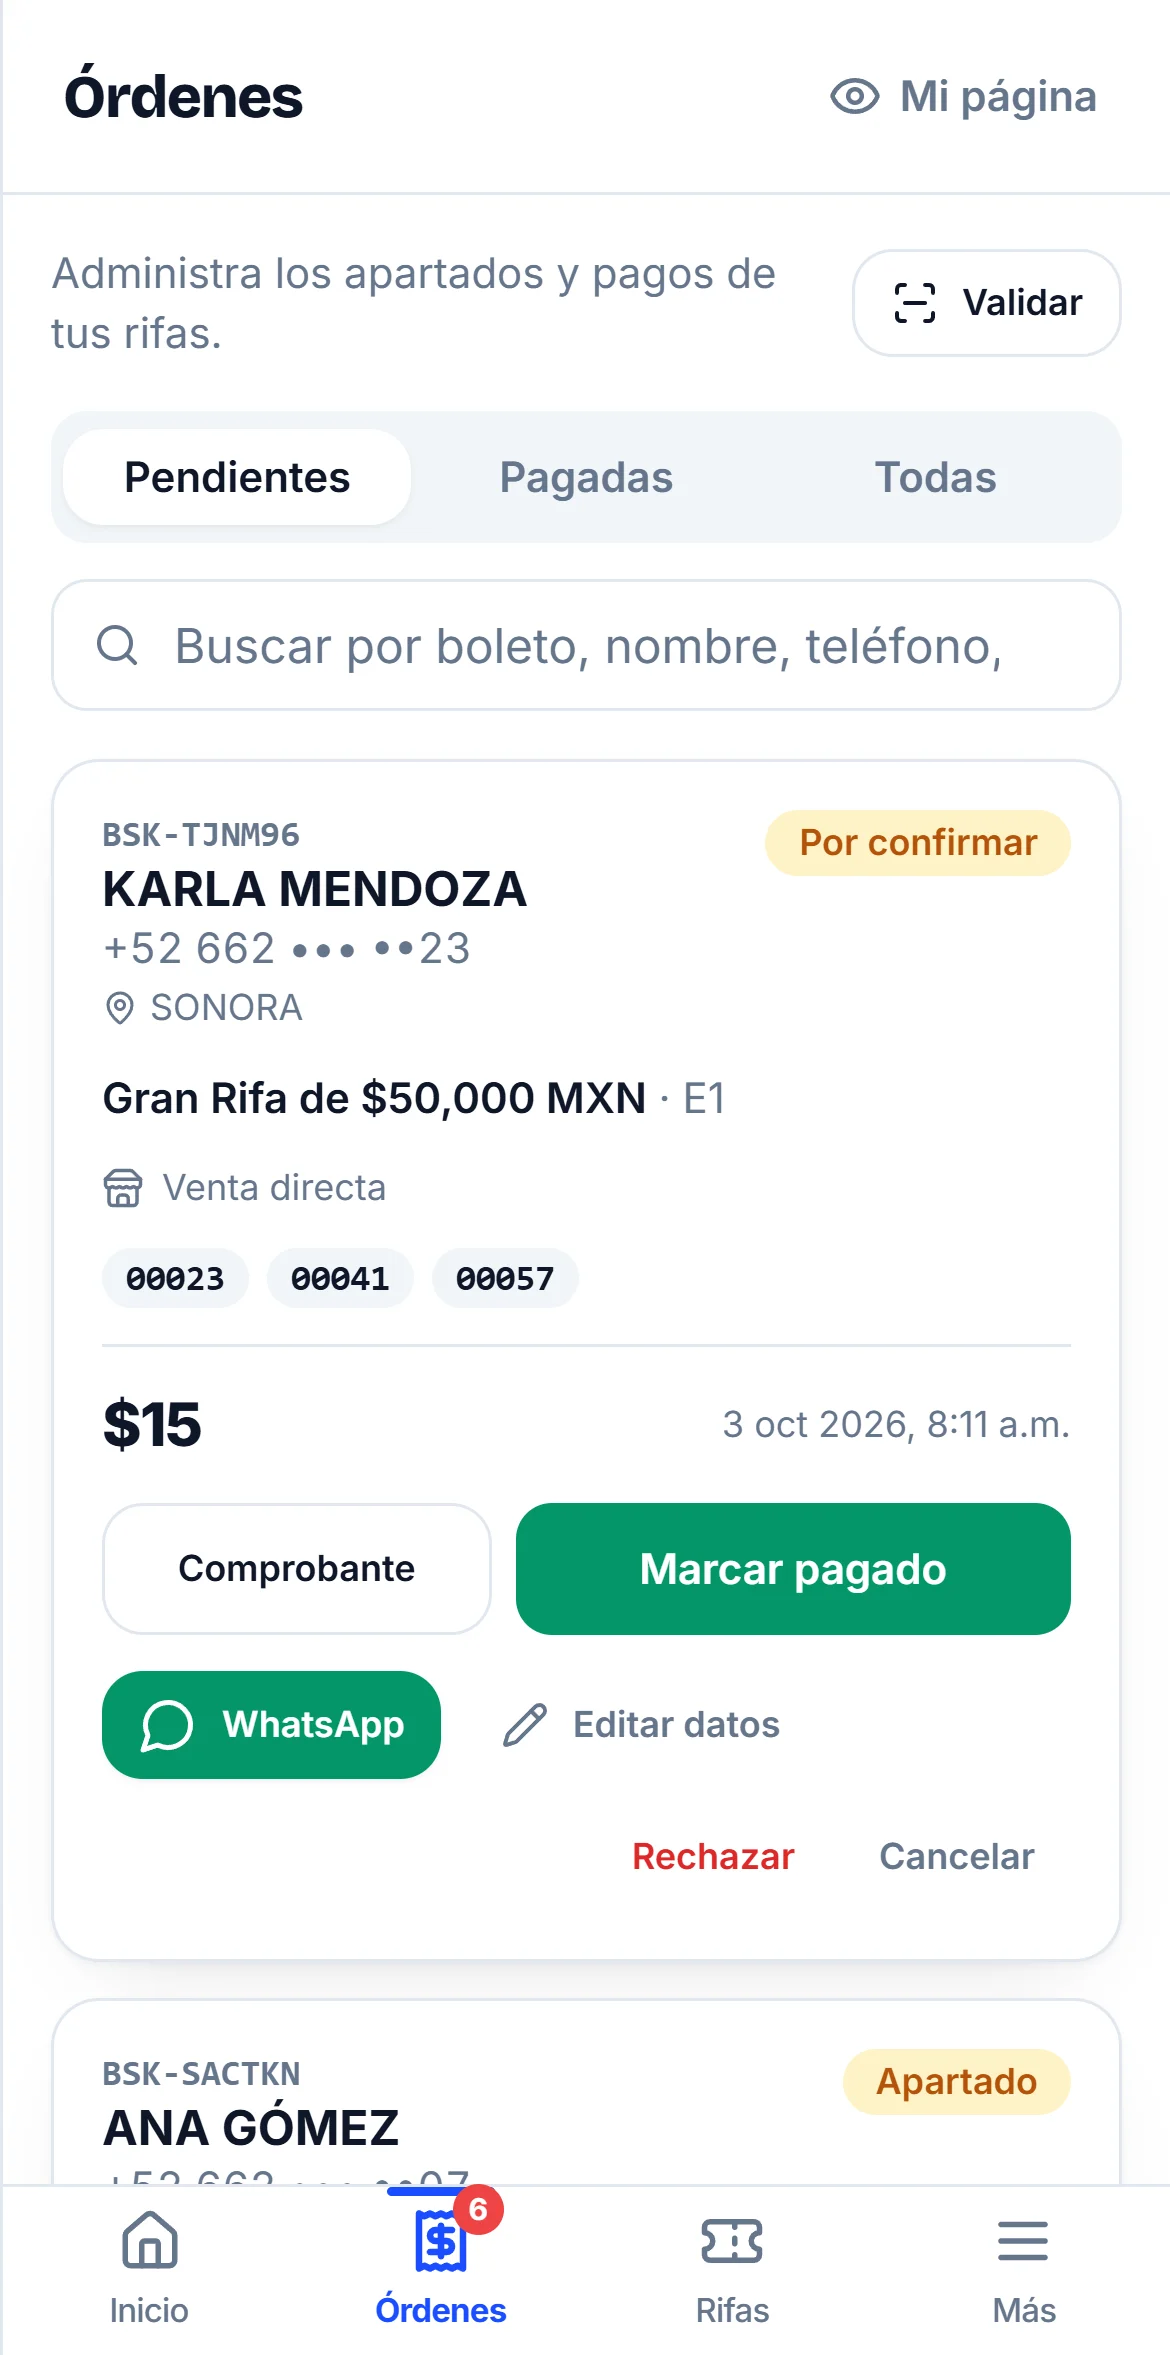
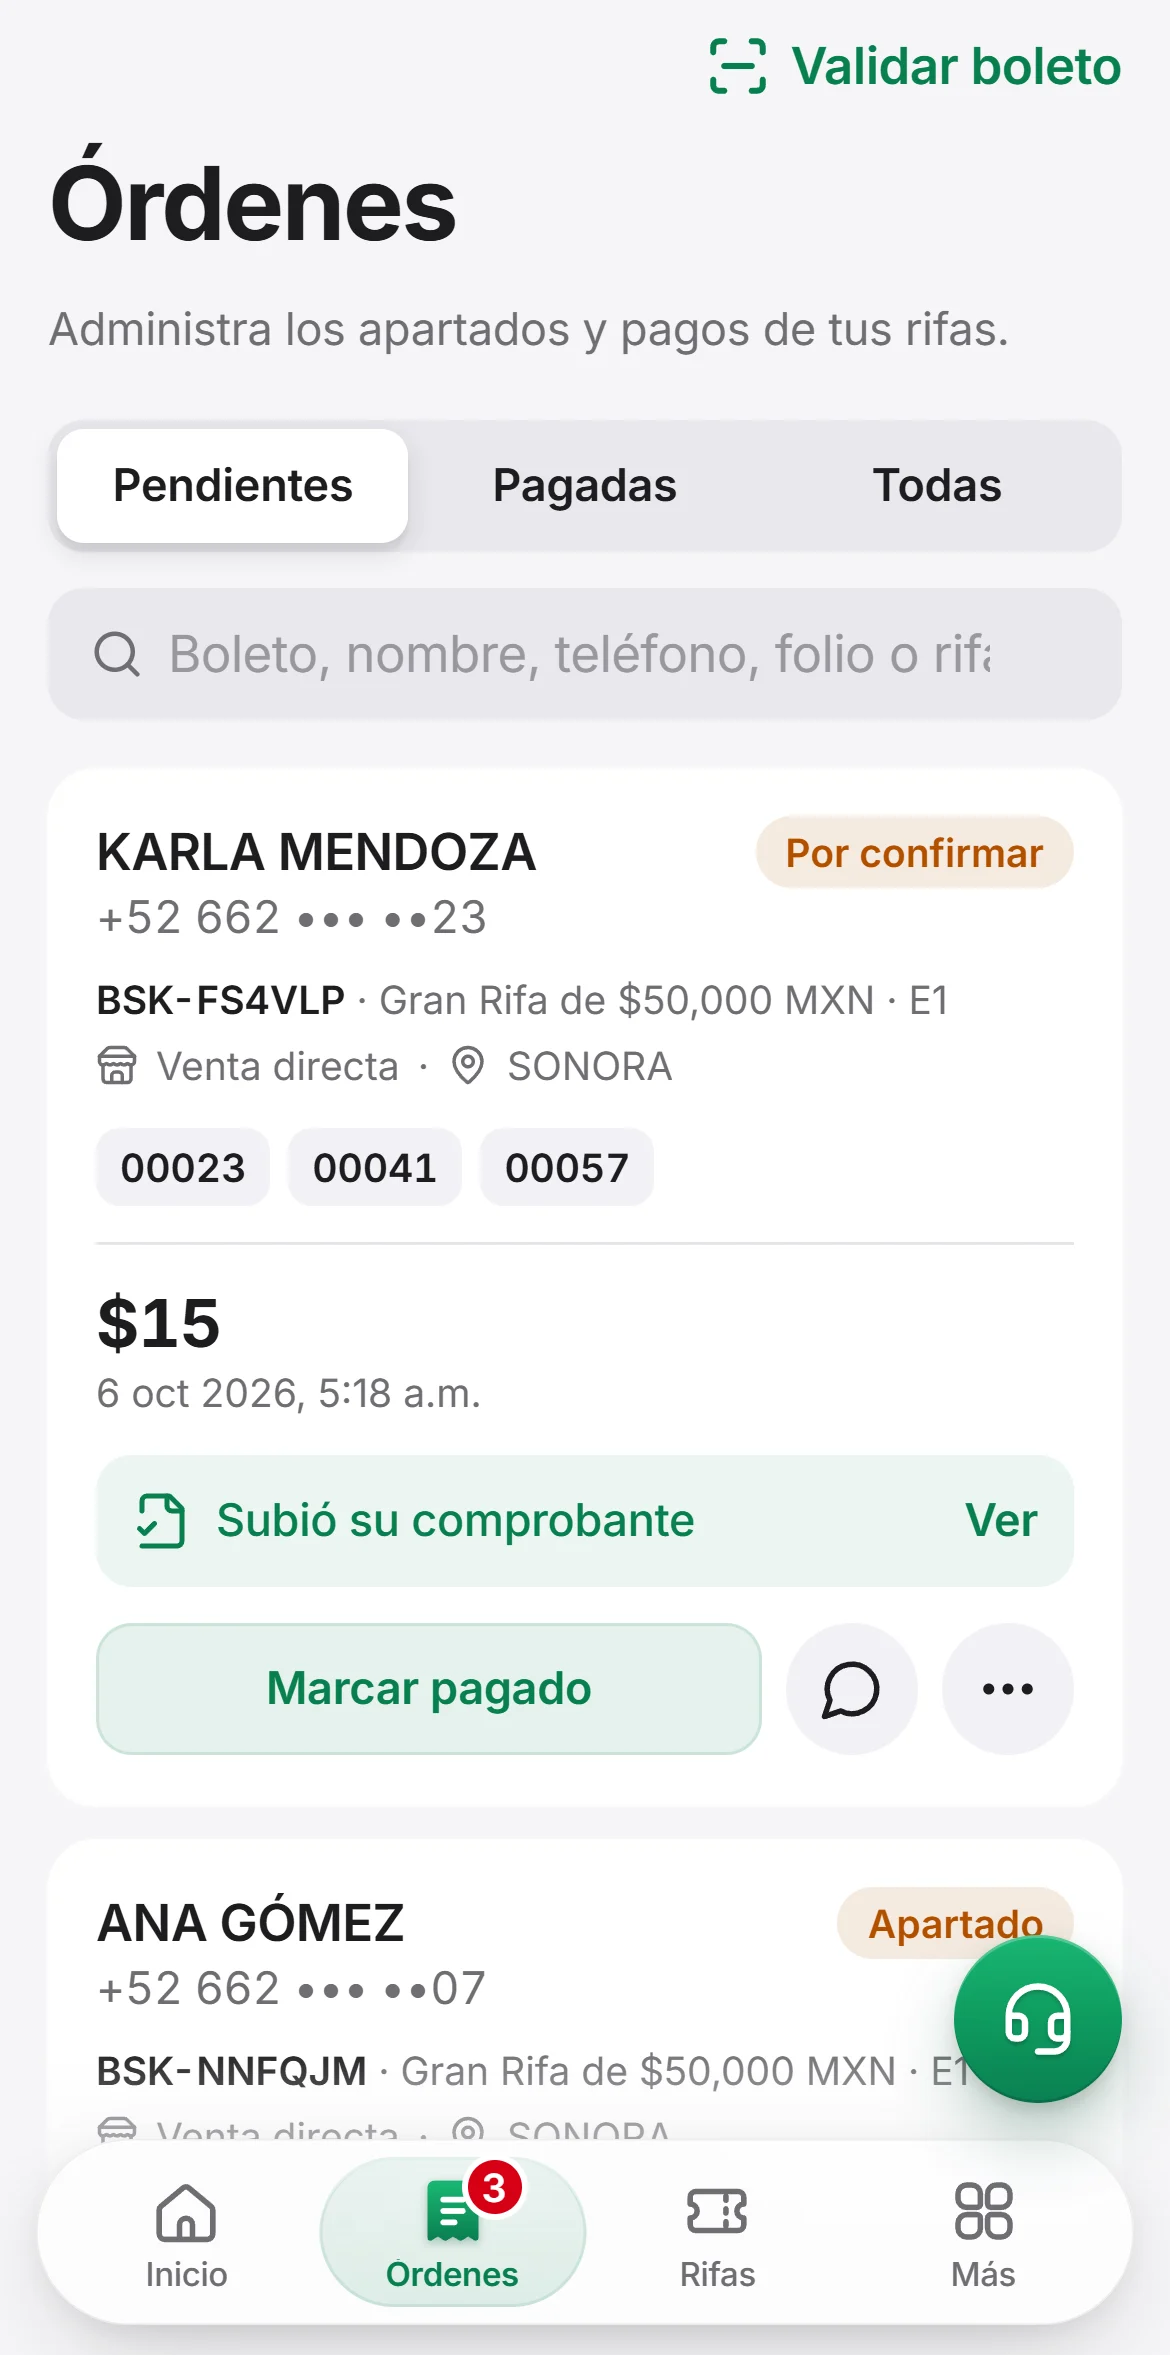
Panel con el diseno nuevo: Ordenes, recorte de Rifas y chat Asistencia 24 h
Capturas tomadas de demo.riffast.com (telefonos ocultos). El prototipo del chat
de ayuda ahora copia el chat real del panel: encabezado, bienvenida y accesos.

diff --git a/index.html b/index.html
@@ -34,7 +34,7 @@
    CONFIGURACIÓN · cambia estos dos valores antes de publicar
    ========================================================= */
 window.RIFFAST = {
-  whatsapp: '5218112345678',   // [POR CONFIRMAR] Tu WhatsApp con lada de país, solo números
+  whatsapp: '526626235329',    // Tu WhatsApp con lada de país (52), solo números
   metaPixelId: ''              // ID del píxel de Meta. Vacío = sin medición
 };
 
@@ -409,29 +409,45 @@ html.riffast-intro-active,html.riffast-intro-active body{overflow:hidden}
 .ay-time{position:absolute;z-index:2;left:0;top:14%;display:inline-flex;align-items:center;gap:8px;padding:10px 14px;border-radius:99px;background:var(--noche);color:#fff;font:500 13.5px/1 var(--f-mono);box-shadow:0 18px 40px -16px rgba(3,18,12,.6)}
 .ay-time svg{width:15px;height:15px;color:var(--menta)}
 @media(min-width:960px){.ay-time{left:4%}}
-.ch{position:absolute;inset:0;display:flex;flex-direction:column;background:#fff;color:var(--tinta);font-family:var(--f-body)}
-.ch .sb{background:#F6F8F7}
-.ch-head{display:flex;align-items:center;gap:3cqw;padding:2cqw 4.4cqw 3.4cqw;background:#F6F8F7;border-bottom:1px solid #E6ECE8}
-.ch-back{font-size:7cqw;line-height:1;color:var(--verde-2)}
-.ch-av{width:10.5cqw;height:10.5cqw;border-radius:50%;background:var(--noche);display:grid;place-items:center;flex:none}
-.ch-av img{width:6.4cqw;height:6.4cqw}
-.ch-head b{display:block;font:700 4cqw/1.15 var(--f-body)}
-.ch-on{display:flex;align-items:center;gap:1.2cqw;font:500 3cqw/1.2 var(--f-body);color:var(--verde-2)}
-.ch-on i{width:1.8cqw;height:1.8cqw;border-radius:50%;background:var(--verde)}
-.ch-body{flex:1;display:flex;flex-direction:column;gap:2.8cqw;padding:4.4cqw 4cqw}
-.msg{max-width:82%;padding:3cqw 3.8cqw;border-radius:4.6cqw;font:400 3.8cqw/1.38 var(--f-body);animation:pop .4s var(--spring) both}
-.msg.bot{align-self:flex-start;background:#EEF2F0;border-bottom-left-radius:1.4cqw}
-.msg.me{align-self:flex-end;background:var(--bosque);color:#fff;border-bottom-right-radius:1.4cqw}
+/* Chat «Asistencia 24 h»: igual al del panel real (hoja sobre el administrador, mismos textos y colores) */
+.ch{--ag:#08804F;--ag-soft:rgba(8,128,79,.1);--ag-line:rgba(8,128,79,.2);--ag-ink:#1D1D1F;--ag-mute:#6E6E73;--ag-fill:#F2F2F7;--ag-rule:#E6E6EB;position:absolute;inset:0;display:flex;flex-direction:column;background:#8E8E93;color:var(--ag-ink);font-family:var(--f-body)}
+.ch .sb{background:transparent;color:#fff}
+.ch-dim{flex:none;height:3.6cqw}
+.ch-sheet{position:relative;flex:1;min-height:0;display:flex;flex-direction:column;border-radius:6cqw 6cqw 0 0;background:#fff;box-shadow:0 -2cqw 6cqw rgba(0,0,0,.18)}
+.ch-grab{position:absolute;left:50%;top:2cqw;width:9cqw;height:1.2cqw;margin-left:-4.5cqw;border-radius:99px;background:#D1D1D6}
+.ch-head{display:flex;align-items:center;gap:3cqw;padding:6cqw 4cqw 3.6cqw;border-bottom:1px solid var(--ag-rule)}
+.ch-av{width:10cqw;height:10cqw;flex:none;border-radius:50%;background:linear-gradient(160deg,#12A96C,var(--ag));display:grid;place-items:center;box-shadow:0 1cqw 3cqw rgba(8,128,79,.35)}
+.ch-av svg{width:5.4cqw;height:5.4cqw}
+.ch-ttl{flex:1;min-width:0}
+.ch-ttl b{display:block;font:600 4.36cqw/1.15 var(--f-body)}
+.ch-ttl small{display:flex;align-items:flex-start;gap:1.4cqw;margin-top:.8cqw;font:400 3.33cqw/1.3 var(--f-body);color:var(--ag-mute)}
+.ch-ttl small i{flex:none;width:1.6cqw;height:1.6cqw;margin-top:1.4cqw;border-radius:50%;background:var(--verde)}
+.ch-btn{flex:none;width:8.4cqw;height:8.4cqw;border-radius:50%;background:var(--ag-fill);display:grid;place-items:center}
+.ch-btn svg{width:4.2cqw;height:4.2cqw}
+.ch-body{flex:1;min-height:0;display:flex;flex-direction:column;gap:2.8cqw;padding:4.4cqw 4cqw;overflow:hidden}
+.ch-welcome{flex:1;display:flex;flex-direction:column;align-items:center;justify-content:center;gap:2.6cqw;text-align:center;transition:opacity .3s}
+.ch-welcome.off{display:none}
+.ch-wi{width:16cqw;height:16cqw;border-radius:50%;background:var(--ag-soft);display:grid;place-items:center;margin-bottom:1cqw}
+.ch-wi svg{width:7.4cqw;height:7.4cqw}
+.ch-welcome b{font:700 5.64cqw/1.15 var(--f-body);letter-spacing:-.01em}
+.ch-welcome p{margin:0;max-width:86%;font:400 3.85cqw/1.4 var(--f-body);color:var(--ag-mute)}
+.ch-chips{display:flex;flex-direction:column;align-items:center;gap:2.4cqw;margin-top:2.4cqw}
+.ch-chips span{padding:2.6cqw 4.4cqw;border-radius:99px;background:var(--ag-soft);box-shadow:inset 0 0 0 1px var(--ag-line);color:var(--ag);font:500 3.85cqw/1.15 var(--f-body)}
+.msg{max-width:82%;padding:3cqw 3.8cqw;border-radius:4.6cqw;font:400 3.85cqw/1.38 var(--f-body);animation:pop .4s var(--spring) both}
+.msg.bot{align-self:flex-start;background:var(--ag-fill);border-bottom-left-radius:1.4cqw}
+.msg.me{align-self:flex-end;background:var(--ag);color:#fff;border-bottom-right-radius:1.4cqw}
 @keyframes pop{from{opacity:0;transform:translateY(3cqw) scale(.94)}}
 .msg-chip{margin-top:2.4cqw;display:flex;align-items:center;gap:2cqw;padding:2.2cqw 3cqw;border-radius:3cqw;background:#fff;font:600 3.3cqw/1.2 var(--f-body)}
 .msg-chip svg{width:4.6cqw;height:4.6cqw;flex:none}
-.typing{align-self:flex-start;display:flex;gap:1.4cqw;padding:3.6cqw 4cqw;border-radius:4.6cqw;border-bottom-left-radius:1.4cqw;background:#EEF2F0;animation:pop .3s var(--ease) both}
-.typing i{width:2cqw;height:2cqw;border-radius:50%;background:#8E9A93;animation:blink 1s infinite}
+.typing{align-self:flex-start;display:flex;gap:1.4cqw;padding:3.6cqw 4cqw;border-radius:4.6cqw;border-bottom-left-radius:1.4cqw;background:var(--ag-fill);animation:pop .3s var(--ease) both}
+.typing i{width:2cqw;height:2cqw;border-radius:50%;background:#8E8E93;animation:blink 1s infinite}
 .typing i:nth-child(2){animation-delay:.2s}.typing i:nth-child(3){animation-delay:.4s}
-.ch-in{display:flex;align-items:center;gap:2.4cqw;padding:3cqw 4cqw 7cqw;border-top:1px solid #E6ECE8}
-.ch-field{flex:1;min-width:0;padding:2.9cqw 4cqw;border:1px solid #DDE3E0;border-radius:99px;font:400 3.6cqw/1.2 var(--f-body);color:#8A968F;white-space:nowrap;overflow:hidden;text-overflow:ellipsis}
-.ch-field.on{color:var(--tinta)}
-.ch-send{width:9.6cqw;height:9.6cqw;flex:none;border-radius:50%;background:var(--bosque);display:grid;place-items:center}
+.ch-in{display:flex;align-items:center;gap:2.6cqw;padding:3cqw 4cqw 7cqw;border-top:1px solid var(--ag-rule)}
+.ch-cam{flex:none;width:6.4cqw;height:6.4cqw;color:#3A3A3C}
+.ch-field{flex:1;min-width:0;padding:3cqw 4.2cqw;border-radius:99px;background:var(--ag-fill);font:400 4.1cqw/1.2 var(--f-body);color:#8E8E93;white-space:nowrap;overflow:hidden;text-overflow:ellipsis}
+.ch-field.on{color:var(--ag-ink)}
+.ch-send{width:10cqw;height:10cqw;flex:none;border-radius:50%;background:var(--ag-fill);color:#8E8E93;display:grid;place-items:center;transition:background .2s,color .2s}
+.ch-send.on{background:var(--ag);color:#fff}
 .ch-send svg{width:50%;height:50%}
 
 /* ======================================================
@@ -890,7 +906,7 @@ html.riffast-intro-active,html.riffast-intro-active body{overflow:hidden}
         <div class="phone"><div class="screen">
           <div class="adm">
             <div class="sb lt"><span>9:41</span><i><span class="sb-sig"></span><span class="sb-bat"></span></i></div>
-            <img src="assets/admin-ordenes.webp?v=2" alt="Panel de Riffast en el celular: la orden de Karla Mendoza con los boletos 00023, 00041 y 00057, por confirmar, con los botones Comprobante y Marcar pagado" width="1170" height="2355" loading="lazy" decoding="async">
+            <img src="assets/admin-ordenes.webp?v=3" alt="Panel de Riffast en el celular: la orden de Karla Mendoza con los boletos 00023, 00041 y 00057, por confirmar, que ya subió su comprobante, con el botón Marcar pagado" width="1170" height="2355" loading="lazy" decoding="async">
           </div>
           <i class="island"></i>
         </div></div>
@@ -929,21 +945,33 @@ html.riffast-intro-active,html.riffast-intro-active body{overflow:hidden}
     <div class="ay-stage" id="chat" data-rv style="--d:120ms">
       <span class="ay-24" aria-hidden="true">24</span>
       <span class="ay-time"><svg viewBox="0 0 16 16" aria-hidden="true"><path d="M13.5 10.2A6 6 0 0 1 5.8 2.5a6 6 0 1 0 7.7 7.7z" fill="currentColor"/></svg>2:13 a. m.</span>
-      <div class="phone" data-proto="prototipo-panel-chat-ayuda-24h" role="img" aria-label="Chat de ayuda dentro del panel: el rifero pide marcar el boleto 00023 como pagado y el chat lo hace">
+      <!-- Prototipo fiel al chat «Asistencia 24 h» del panel real (mismos textos, colores y accesos) -->
+      <div class="phone" data-proto="prototipo-asistencia-24h-panel" role="img" aria-label="Asistencia 24 horas dentro del panel: el rifero pide marcar el boleto 00023 como pagado y el chat lo hace">
         <div class="screen">
           <div class="ch">
-            <div class="sb lt"><span>2:13</span><i><span class="sb-sig"></span><span class="sb-bat"></span></i></div>
-            <div class="ch-head">
-              <span class="ch-back">‹</span>
-              <span class="ch-av"><img src="assets/clover-riffast.svg" alt=""></span>
-              <span><b>Ayuda 24 horas</b><span class="ch-on"><i></i>En línea</span></span>
-            </div>
-            <div class="ch-body" id="ch-body">
-              <div class="msg bot">Hola. ¿Qué cambio hago en tu rifa?</div>
-            </div>
-            <div class="ch-in">
-              <span class="ch-field" id="ch-field">Escribe un mensaje</span>
-              <span class="ch-send"><svg viewBox="0 0 24 24" aria-hidden="true"><path d="M12 19V5M5 12l7-7 7 7" fill="none" stroke="#fff" stroke-width="2.6" stroke-linecap="round" stroke-linejoin="round"/></svg></span>
+            <div class="sb"><span>2:13</span><i><span class="sb-sig"></span><span class="sb-bat"></span></i></div>
+            <div class="ch-dim"></div>
+            <div class="ch-sheet">
+              <i class="ch-grab"></i>
+              <div class="ch-head">
+                <span class="ch-av"><svg viewBox="0 0 24 24" aria-hidden="true"><path d="M4 14v-2a8 8 0 0 1 16 0v2" fill="none" stroke="#fff" stroke-width="2" stroke-linecap="round"/><rect x="3" y="13" width="4.5" height="6.5" rx="1.6" fill="#fff"/><rect x="16.5" y="13" width="4.5" height="6.5" rx="1.6" fill="#fff"/><path d="M19 19.5c0 1.4-1.6 2.2-4.5 2.2" fill="none" stroke="#fff" stroke-width="1.8" stroke-linecap="round"/></svg></span>
+                <span class="ch-ttl"><b>Asistencia 24 h</b><small><i></i>Dudas y cambios en tu administrador, a cualquier hora</small></span>
+                <span class="ch-btn"><svg viewBox="0 0 24 24" aria-hidden="true"><circle cx="6" cy="12" r="1.6" fill="#3A3A3C"/><circle cx="12" cy="12" r="1.6" fill="#3A3A3C"/><circle cx="18" cy="12" r="1.6" fill="#3A3A3C"/></svg></span>
+                <span class="ch-btn"><svg viewBox="0 0 24 24" aria-hidden="true"><path d="M7 7l10 10M17 7L7 17" fill="none" stroke="#3A3A3C" stroke-width="2" stroke-linecap="round"/></svg></span>
+              </div>
+              <div class="ch-body" id="ch-body">
+                <div class="ch-welcome" id="ch-welcome">
+                  <span class="ch-wi"><svg viewBox="0 0 24 24" aria-hidden="true"><path d="M4.5 19.5l1.2-3.4A8 8 0 1 1 9 19.3z" fill="none" stroke="#08804F" stroke-width="1.9" stroke-linejoin="round"/></svg></span>
+                  <b>¿En qué te ayudamos?</b>
+                  <p>Escríbenos y te ayudamos con tus dudas o con cambios en tu administrador, a cualquier hora.</p>
+                  <div class="ch-chips"><span>Crear una rifa</span><span>Agregar mis datos de pago</span><span>¿Cómo vendo más boletos?</span><span>Revisar pagos pendientes</span></div>
+                </div>
+              </div>
+              <div class="ch-in">
+                <svg class="ch-cam" viewBox="0 0 24 24" aria-hidden="true"><path d="M4 8.5A2.5 2.5 0 0 1 6.5 6H8l1.2-1.8c.2-.3.5-.5.9-.5h3.8c.4 0 .7.2.9.5L16 6h1.5A2.5 2.5 0 0 1 20 8.5v8a2.5 2.5 0 0 1-2.5 2.5h-11A2.5 2.5 0 0 1 4 16.5v-8Z" fill="none" stroke="currentColor" stroke-width="1.7"/><circle cx="12" cy="12.5" r="3.2" fill="none" stroke="currentColor" stroke-width="1.7"/></svg>
+                <span class="ch-field" id="ch-field">Escribe tu mensaje…</span>
+                <span class="ch-send" id="ch-send"><svg viewBox="0 0 24 24" aria-hidden="true"><path d="M12 19V5M5 12l7-7 7 7" fill="none" stroke="currentColor" stroke-width="2.4" stroke-linecap="round" stroke-linejoin="round"/></svg></span>
+              </div>
             </div>
           </div>
           <i class="island"></i>
@@ -1032,7 +1060,7 @@ html.riffast-intro-active,html.riffast-intro-active body{overflow:hidden}
       </li>
       <li class="paso" data-rv style="--d:180ms" data-proto="paso-3-captura-real-rifa-publicada">
         <div class="paso-vis vender">
-          <img src="assets/admin-rifa-publicada.webp?v=2" alt="Panel de Riffast: botón Compartir rifa y la rifa visible en la página" width="1029" height="378" loading="lazy" decoding="async">
+          <img src="assets/admin-rifa-publicada.webp?v=3" alt="Panel de Riffast: la rifa con su fecha de sorteo y los botones Boletos y Compartir" width="1074" height="306" loading="lazy" decoding="async">
           <div class="pv-row pv-g" aria-hidden="true"><i></i><span>3 boletos apartados</span></div>
         </div>
         <div><span class="paso-n">Paso 3</span><h3>La revisas y vendes</h3></div>
@@ -1095,7 +1123,7 @@ html.riffast-intro-active,html.riffast-intro-active body{overflow:hidden}
       <form class="lead-form" id="lead-form" novalidate>
         <label for="rf-nombre">Nombre de tu rifa</label>
         <input class="nm" id="rf-nombre" name="nombre" type="text" placeholder="Gran Rifa Navideña" autocomplete="off" maxlength="60" enterkeyhint="send">
-        <a class="btn btn-verde btn-lg btn-block" id="wa-cta" href="https://wa.me/" target="_blank" rel="noopener">
+        <a class="btn btn-verde btn-lg btn-block" id="wa-cta" href="https://wa.me/526626235329" target="_blank" rel="noopener">
           <svg viewBox="0 0 24 24" aria-hidden="true"><path fill="currentColor" d="M12.04 2C6.58 2 2.13 6.45 2.13 11.91c0 1.75.46 3.45 1.32 4.95L2.05 22l5.25-1.38c1.45.79 3.08 1.21 4.74 1.21 5.46 0 9.91-4.45 9.91-9.91C21.95 6.45 17.5 2 12.04 2zm0 18.15c-1.48 0-2.93-.4-4.2-1.15l-.3-.18-3.12.82.83-3.04-.2-.31a8.26 8.26 0 0 1-1.26-4.38c0-4.54 3.7-8.24 8.24-8.24 4.54 0 8.24 3.7 8.24 8.24 0 4.55-3.7 8.24-8.24 8.24zm4.52-6.16c-.25-.12-1.47-.72-1.69-.81-.23-.08-.39-.12-.56.12-.17.25-.64.81-.78.97-.14.17-.29.19-.54.06-.25-.12-1.05-.39-1.99-1.23-.74-.66-1.23-1.47-1.38-1.72-.14-.25-.02-.38.11-.51.11-.11.25-.29.37-.43s.17-.25.25-.41c.08-.17.04-.31-.02-.43s-.56-1.34-.76-1.84c-.2-.48-.41-.42-.56-.43h-.48c-.17 0-.43.06-.66.31-.22.25-.86.85-.86 2.07 0 1.22.89 2.4 1.01 2.56.12.17 1.75 2.67 4.23 3.74.59.26 1.05.41 1.41.52.59.19 1.13.16 1.56.1.48-.07 1.47-.6 1.67-1.18.21-.58.21-1.07.14-1.18s-.22-.16-.47-.28z"/></svg>
           Quiero mi página así
         </a>
@@ -1137,7 +1165,7 @@ html.riffast-intro-active,html.riffast-intro-active body{overflow:hidden}
   <h3>Medición de anuncios</h3>
   <p>Usamos el píxel de Meta y cookies para saber qué anuncio te trajo y mejorar nuestras campañas. Puedes bloquearlos desde la configuración de tu navegador.</p>
   <h3>Tus derechos</h3>
-  <p>Puedes pedir acceso, corrección o cancelación de tus datos, u oponerte a su uso (derechos ARCO). <a id="priv-wa" href="https://wa.me/" target="_blank" rel="noopener">Escríbenos por WhatsApp</a> y lo atendemos.</p>
+  <p>Puedes pedir acceso, corrección o cancelación de tus datos, u oponerte a su uso (derechos ARCO). <a id="priv-wa" href="https://wa.me/526626235329" target="_blank" rel="noopener">Escríbenos por WhatsApp</a> y lo atendemos.</p>
 </dialog>
 
 <!-- Botón fijo: siempre hay un botón a la vista (el del inicio o este) -->
@@ -1399,18 +1427,20 @@ html.riffast-intro-active,html.riffast-intro-active body{overflow:hidden}
      05 AYUDA · chat
      ====================================================== */
   (function () {
-    var stage = $('#chat'), body = $('#ch-body'), field = $('#ch-field');
+    var stage = $('#chat'), body = $('#ch-body'), field = $('#ch-field'), send = $('#ch-send'), welcome = $('#ch-welcome');
     if (!stage) return;
-    var TXT = 'Marca el 00023 como pagado';
+    var TXT = 'Marca el 00023 como pagado', PH = 'Escribe tu mensaje…';
     async function run() {
       showReplay('chat', false);
       $$('[data-dyn]', body).forEach(function (m) { m.remove(); });
-      field.textContent = 'Escribe un mensaje'; field.classList.remove('on');
-      await wait(600);
-      field.classList.add('on');
+      welcome.classList.remove('off');
+      field.textContent = PH; field.classList.remove('on'); send.classList.remove('on');
+      await wait(900);
+      field.classList.add('on'); send.classList.add('on');
       for (var i = 1; i <= TXT.length; i++) { field.textContent = TXT.slice(0, i); await wait(42); }
       await wait(350);
-      field.textContent = 'Escribe un mensaje'; field.classList.remove('on');
+      field.textContent = PH; field.classList.remove('on'); send.classList.remove('on');
+      welcome.classList.add('off');
       body.insertAdjacentHTML('beforeend', '<div class="msg me" data-dyn>' + TXT + '</div>');
       await wait(500);
       body.insertAdjacentHTML('beforeend', '<div class="typing" data-dyn><i></i><i></i><i></i></div>');
